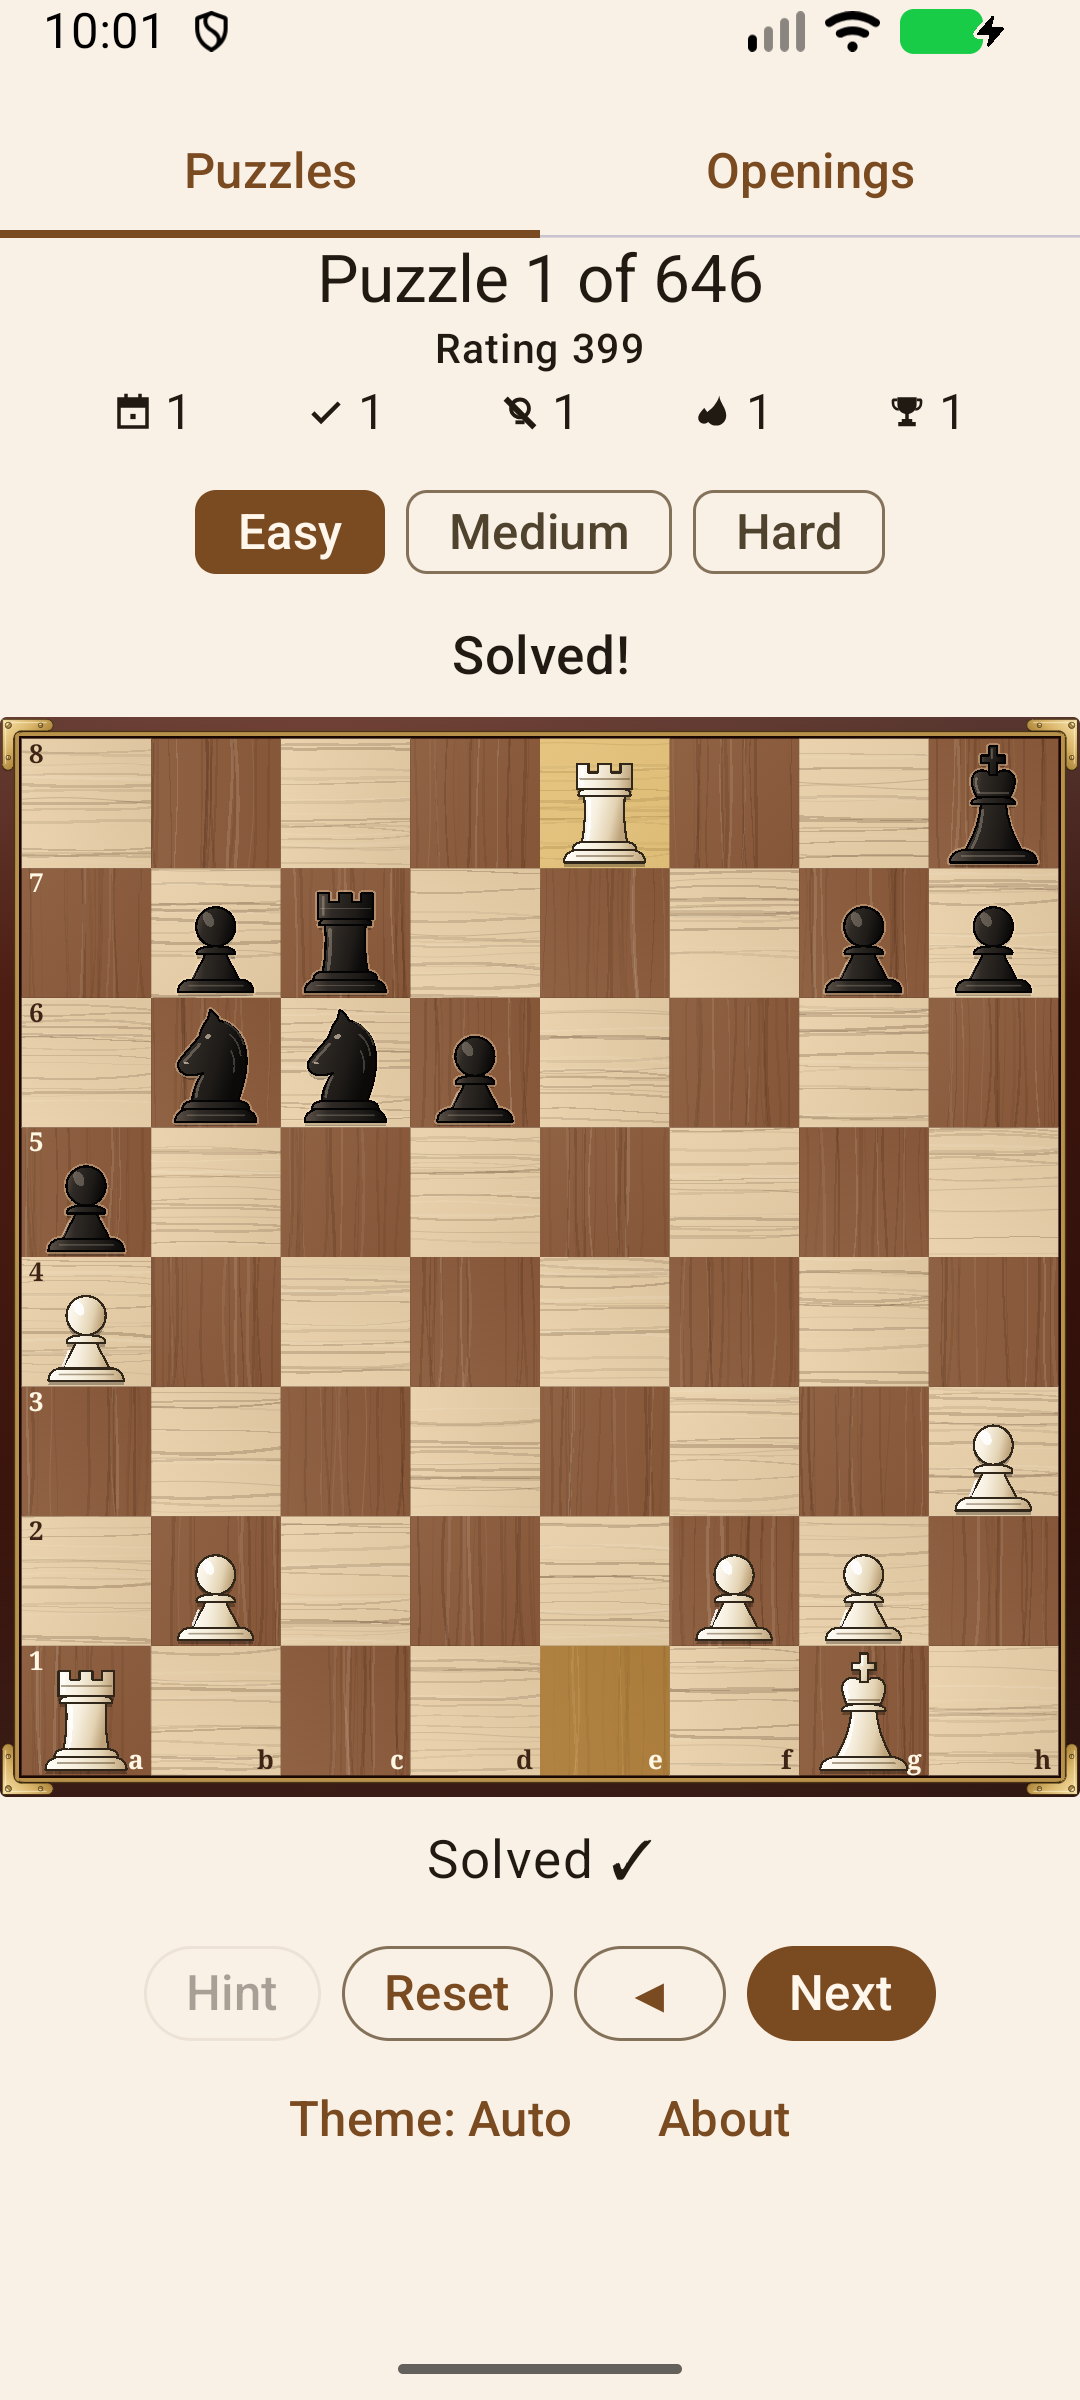
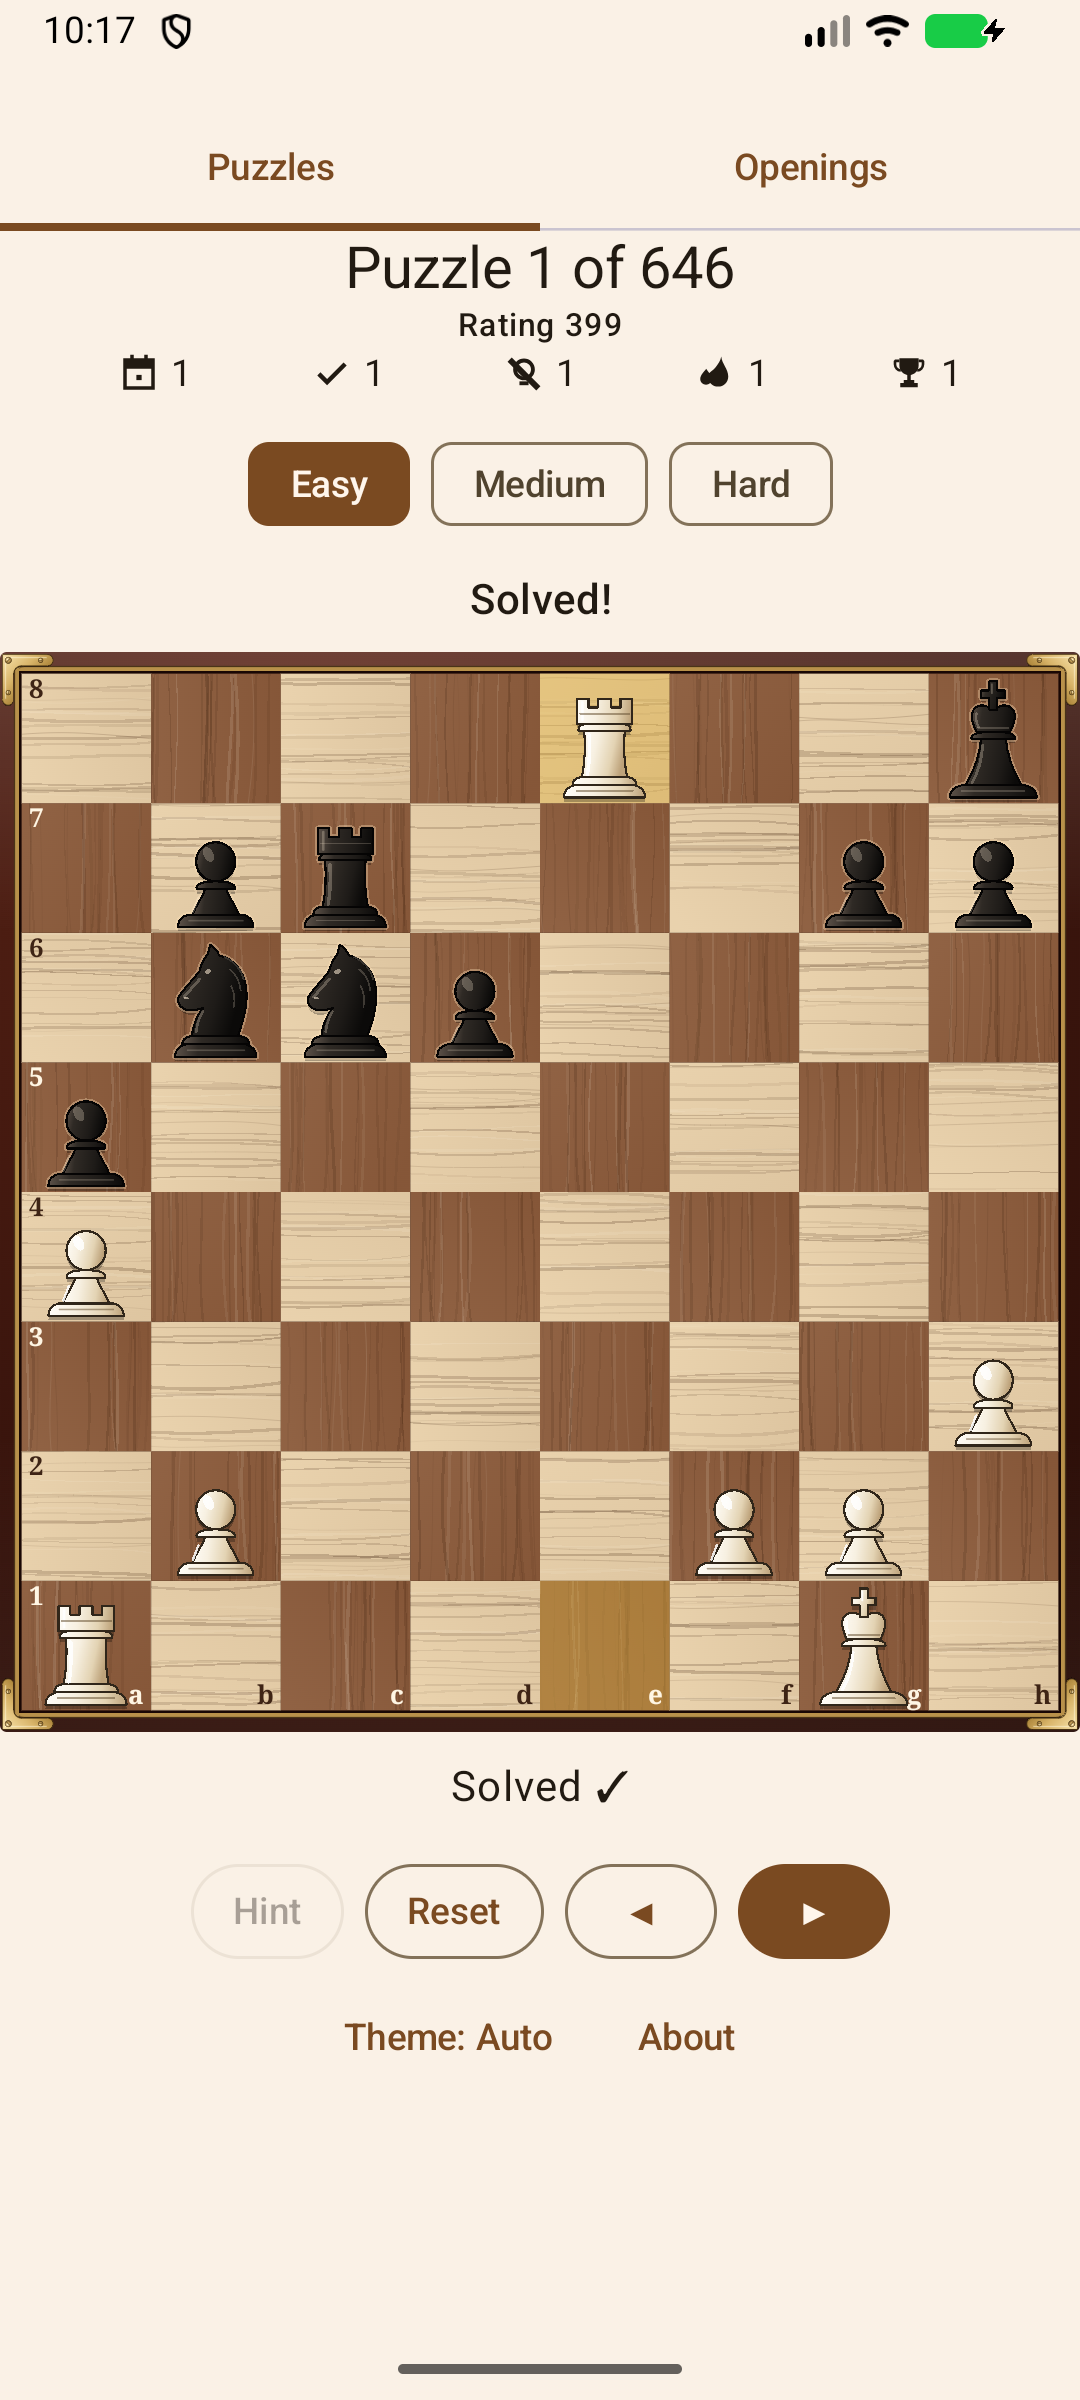
feat: the Next button is a ▶ arrow, matching ◀
The owner asked for the arrow tip instead of the word. Screen readers
still announce "Next puzzle"; the tests find the button by that. Fresh
screenshots for the site, the README and F-Droid.

Prepares the 0.5.18 release: VERSION_NAME 0.5.18, VERSION_CODE 5018 and
its changelog.

Claude-Session: https://claude.ai/code/session_015DTcs4n6vbQGhzc9iZ1YHV

diff --git a/app/src/main/java/dk/cocode/chess/ui/PuzzlePanels.kt b/app/src/main/java/dk/cocode/chess/ui/PuzzlePanels.kt
@@ -90,13 +90,17 @@ internal fun PuzzleControls(
         val inProgress = state.status == PuzzleStatus.IN_PROGRESS
         OutlinedButton(onHint, item.then(CompactButton), enabled = inProgress, contentPadding = CompactPadding) { Text("Hint") }
         OutlinedButton(onReset, item.then(CompactButton), contentPadding = CompactPadding) { Text("Reset") }
-        // An arrow, not a word, so four buttons still fit one row on a small phone at a large font.
+        // Arrows, not words, so four buttons still fit one row on a small phone at a large font.
         OutlinedButton(
             onPrevious,
             item.then(CompactButton).semantics { contentDescription = "Previous puzzle" },
             contentPadding = CompactPadding,
         ) { Text("◀") }
-        Button(onNext, item.then(CompactButton), contentPadding = CompactPadding) { Text("Next") }
+        Button(
+            onNext,
+            item.then(CompactButton).semantics { contentDescription = "Next puzzle" },
+            contentPadding = CompactPadding,
+        ) { Text("▶") }
     }
 }
 

diff --git a/app/src/test/java/dk/cocode/chess/MainActivityTest.kt b/app/src/test/java/dk/cocode/chess/MainActivityTest.kt
@@ -3,6 +3,7 @@ package dk.cocode.chess
 import androidx.compose.ui.test.click
 import androidx.compose.ui.test.junit4.createAndroidComposeRule
 import androidx.compose.ui.test.onAllNodesWithText
+import androidx.compose.ui.test.onNodeWithContentDescription
 import androidx.compose.ui.test.onNodeWithTag
 import androidx.compose.ui.test.onNodeWithText
 import androidx.compose.ui.test.performClick
@@ -37,7 +38,7 @@ class MainActivityTest {
         composeRule.onNodeWithTag(BOARD_TEST_TAG).performTouchInput { click(center) }
         composeRule.onNodeWithTag(BOARD_TEST_TAG).performTouchInput { swipeRight() }
         composeRule.onNodeWithText("Reset").performClick()
-        composeRule.onNodeWithText("Next").performClick()
+        composeRule.onNodeWithContentDescription("Next puzzle").performClick()
         composeRule.renderToBitmap()
     }
 

diff --git a/app/src/test/java/dk/cocode/chess/ui/LandscapeLayoutTest.kt b/app/src/test/java/dk/cocode/chess/ui/LandscapeLayoutTest.kt
@@ -52,7 +52,8 @@ class LandscapeLayoutTest {
         val stats = composeRule.onNodeWithContentDescription("Day streak").getUnclippedBoundsInRoot()
         assertTrue(stats.right <= board.left) // the numbers on its left ...
         assertTrue(bounds("Hint").left >= board.right) // ... the buttons on its right ...
-        assertTrue(bounds("Next").bottom <= screen.bottom) // ... stacked, and all on screen
+        val next = composeRule.onNodeWithContentDescription("Next puzzle").getUnclippedBoundsInRoot()
+        assertTrue(next.bottom <= screen.bottom) // ... stacked, and all on screen
     }
 
     /**

diff --git a/app/src/test/java/dk/cocode/chess/ui/UiRenderTest.kt b/app/src/test/java/dk/cocode/chess/ui/UiRenderTest.kt
@@ -133,7 +133,7 @@ class UiRenderTest {
     @Test fun rendersSolvedState() {
         show(PuzzleUiState(board = board, status = PuzzleStatus.SOLVED, feedback = Feedback.SOLVED))
         composeRule.renderToBitmap()
-        composeRule.onNodeWithText("Next").assertExists()
+        composeRule.onNodeWithContentDescription("Next puzzle").assertExists()
     }
 
     @Test fun rendersDarkThemeAndTogglesIt() {
